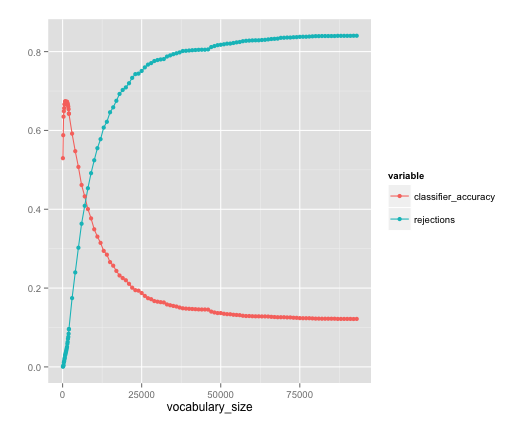
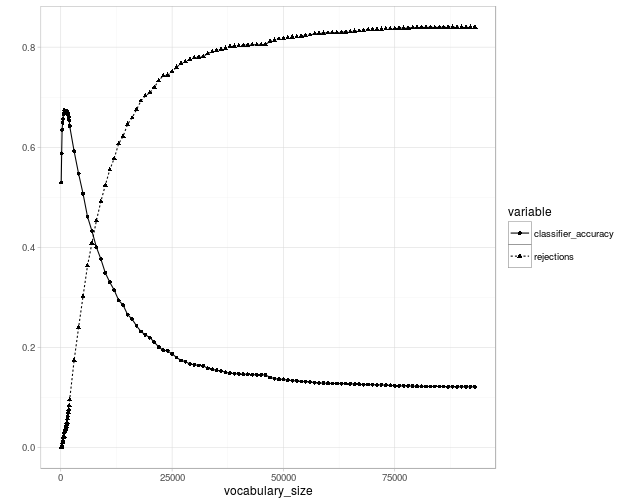
started making latex document. Regenerated plots and removed dots from confusion matrices.

diff --git a/exercise3/ex3.tex b/exercise3/ex3.tex
@@ -1,0 +1,128 @@
+%% Dokumentenklasse (Koma Script) -----------------------------------------
+\documentclass[%
+   11pt,              % Schriftgroesse
+   ngerman,           % wird an andere Pakete weitergereicht
+   a4paper,           % Seitengroesse
+   DIV11,             % Textbereichsgroesse (siehe Koma Skript Dokumentation !)
+]{scrartcl}%     Klassen: scrartcl, scrreprt, scrbook
+% -------------------------------------------------------------------------
+
+\usepackage[utf8]{inputenc} % Font Encoding, benoetigt fuer Umlaute
+\usepackage[ngerman]{babel}   % Spracheinstellung
+
+\usepackage[T1]{fontenc} % T1 Schrift Encoding
+\usepackage{textcomp}    % Zusatzliche Symbole (Text Companion font extension)
+\usepackage{lmodern}     % Latin Modern Schrift
+\usepackage{listings}
+\usepackage{framed}
+\usepackage{amssymb}
+\usepackage{amsmath}
+\usepackage{framed}
+\usepackage{listings}
+%für die Konfusionsmatrizen
+\usepackage{csvsimple}
+\usepackage{lscape}
+
+
+\usepackage[left=2cm,right=3cm,top=2cm,bottom=2cm,includeheadfoot]{geometry}
+%Kopf- und Fußzeile
+\usepackage{fancyhdr}
+%Grafiken einbetten
+\usepackage{graphicx}
+
+\pagestyle{fancy}
+\fancyhf{}
+%Übungsteilnehmer
+\fancyhead[L]{Matthias Hansen, 331600~~Lukas Huwald, 322890\\}
+%Kopfzeile mittig
+\fancyhead[R]{NLP Exercise03}
+%Linie oben
+\renewcommand{\headrulewidth}{0.5pt}
+
+\setlength{\parskip}{1ex}
+
+%Fußzeile links bzw. innen
+\fancyfoot[L]{}
+%Fußzeile rechts bzw. außen
+\fancyfoot[R]{\thepage}
+%Linie unten
+\renewcommand{\footrulewidth}{0.5pt}
+%% Dokument Beginn %%%%%%%%%%%%%%%%%%%%%%%%%%%%%%%%%%%%%%%%%%%%%%%%%%%%%%%%
+\begin{document}
+\section*{Task 1}
+\subsection*{a.)}
+
+See code and especially the file \texttt{README.txt}.
+
+\subsection*{b.)}
+
+In addition to classification accuracy, we have also plotted the percentage
+of documents that the classifier rejected. Our classifier rejects a document
+if p(c|document) is 0 for all classes c. In our program, this corresponds to the log-likelihood coming out as \texttt{-inf}.
+
+\includegraphics[width=\textwidth]{exercise03.1/accuracy_naive.png}
+
+As we can see, the error rate shows this behavior because too many Documents are rejected due to p(c|document) being zero. This is the case because of p(document|c) being 0 in the Bayes decision rule. p(document|c) is just the product of the relative frequencies of the words of the document in the training data, however. So, to conclude, the problem is that as soon as one word that was not encountered in the training data is encountered in a test document, the test document will get rejected immediately. This occurs most frequently when the dictionary is large, because in a small dictionary, these rare words just get replaced by \texttt{<UNK>}, which is then a very frequent word.
+
+\subsection*{c.)}
+
+To solve this problem, we propose to use a simple smoothing method.
+Originally, the class conditional probabilities of words are defined as follows:
+
+$p(w|c) = \frac{N_{w,c}}{N_c}$
+
+However, the problem was that $N_{w,c}$ was zero frequently. To solve this, we replace the cases in which it was zero by one.
+
+$p(w|c) = \begin{cases} 
+    p(w|c) = \frac{1}{N_c} & \text{if } N_{w,c} = 0\\
+    p(w|c) = \frac{N_{w,c}}{N_c} & \text{otherwise}\\
+\end{cases}$
+
+However, in this solution, the probabilites do not add up to 1, which is a problem. To fix this, we introduce a ``count count'' $N_0 := |\{w|N_{w,c} = 0\}|$. And write the probability as follows.
+
+$p(w|c) = \begin{cases} 
+    p(w|c) = \frac{1}{N_c + N_0} & \text{if } N_{w,c} = 0\\
+    p(w|c) = \frac{N_{w,c}}{N_c + N_0} & \text{otherwise}\\
+\end{cases}$
+
+Now that we have solved this problem, the accuracy is much better, especially for bigger vocabularies:
+
+\includegraphics[width=\textwidth]{exercise03.1/accuracy_smoothed.png}
+
+
+\makeatletter
+\csvset{
+autotabularcenter/.style={
+    file=#1,
+    after head=\csv@pretable\begin{tabular}{|*{\csv@columncount}{p{1.5cm}|}}\csv@tablehead,
+    table head=\hline\csvlinetotablerow\\\hline,
+    late after line=\\\hline,
+    table foot=\\\hline,
+    late after last line=\csv@tablefoot\end{tabular}\csv@posttable,
+    command=\csvlinetotablerow},
+}
+\makeatother
+\newcommand{\csvautotabularcenter}[2][]{\csvloop{autotabularcenter={#2},#1}}
+
+\begin{landscape}
+\subsection*{d.)}
+
+Confusion matrix for smoothed probabilities:
+
+\scalebox{0.5} {
+    \csvautotabularcenter{exercise03.1/confusion_matrix_smoothed.csv}
+}
+\end{landscape}
+
+\begin{landscape}
+
+Confusion matrix for unsmoothed probabilities:
+
+\scalebox{0.5} {
+    \csvautotabularcenter{exercise03.1/confusion_matrix.csv}
+}
+\end{landscape}
+
+
+
+\end{document}

diff --git a/exercise3/exercise03.1/confusion_matrix.cc b/exercise3/exercise03.1/confusion_matrix.cc
@@ -7,7 +7,7 @@ void ConfusionMatrix::insert(std::string realClass,std::string foundClass) {
 std::string ConfusionMatrix::toString() {
     this->classesEncountered.erase("");
     std::string newline = "\n";
-    std::string res = "true_class/classifier_output";
+    std::string res = "trueClass/classifierOutput";
     //Make header row of table
     for(auto klass:this->classesEncountered) res = (res + "," + klass);
     res = res + ",REJECT" + newline;
